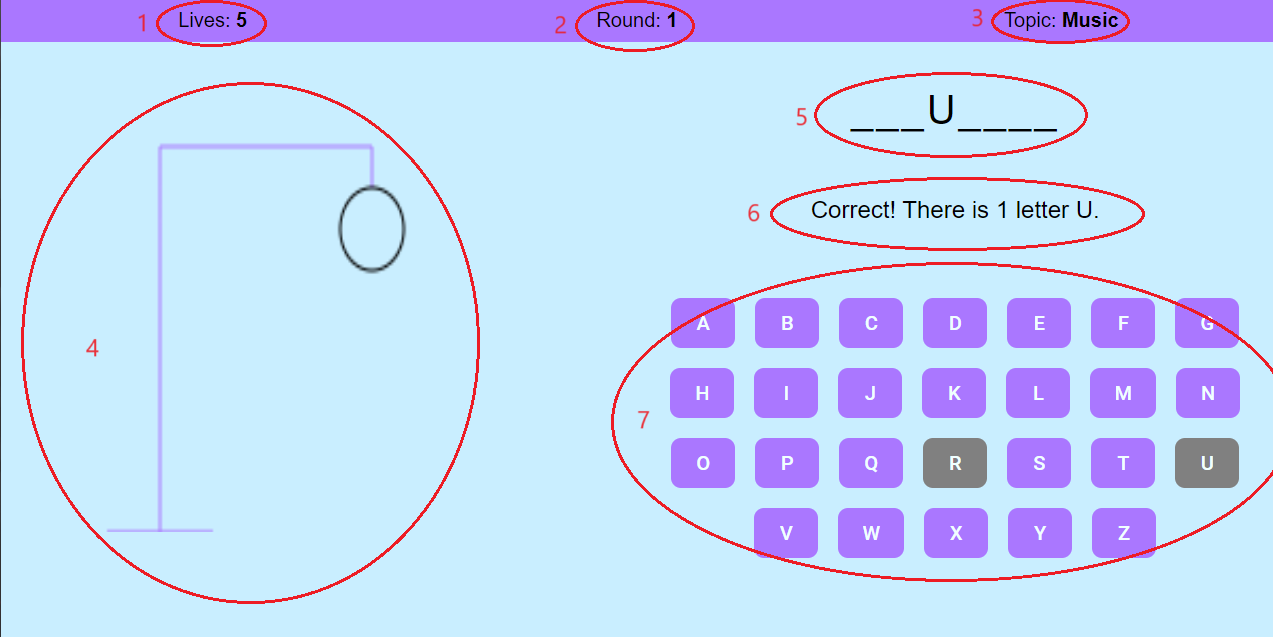
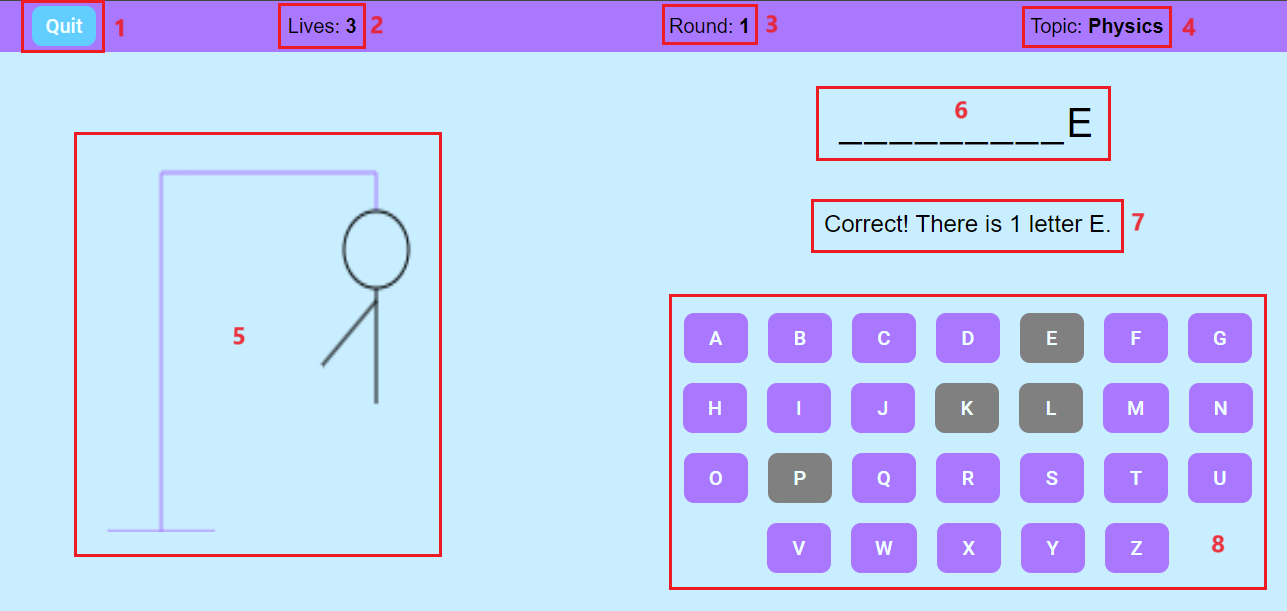
Add navigation buttons & update instruction content

diff --git a/src/app/instruction/instruction.component.html b/src/app/instruction/instruction.component.html
@@ -1,4 +1,5 @@
 <main>
+    <button mat-button id="back" (click)="backToMainMenu()">Back</button>
     <h1>INSTRUCTION</h1>
     <div>
         <p>
@@ -9,25 +10,26 @@
         <p>The game UI contains following parts, as seen in the figure below:</p>
         <img id="ui" src="hangman-ui.png" alt="Hangman UI">
         <ol>
+            <li><strong>Quit: </strong>If you want to quit the game, please use this button.</li>
             <li>
-                <b>Lives: </b>The number of lives left. If it is smaller than 3, it will be red color to indicate the player has
+                <strong>Lives: </strong>The number of lives left. If it is smaller than 3, it will be red color to indicate the player has
                 low lives.
             </li>
-            <li><b>Round: </b>The current playing round.</li>
-            <li><b>Topic: </b>The topic that associated to the hidden word.</li>
-            <li><b>Figure: </b>The image representation of the lives.</li>
+            <li><strong>Round: </strong>The current playing round.</li>
+            <li><strong>Topic: </strong>The topic that associated to the hidden word.</li>
+            <li><strong>Figure: </strong>The image representation of the lives.</li>
             <li>
-                <b>Hidden word: </b>Only English alphabet characters are hidden as underscores. If you correctly guesses a letter,
+                <strong>Hidden word: </strong>Only English alphabet characters are hidden as underscores. If you correctly guesses a letter,
                 it will be shown here.
             </li>
             <li>
-                <b>Game status: </b>Each time you guess a letter, when you solve a word, or when the game is over, a textual status
+                <strong>Game status: </strong>Each time you guess a letter, when you solve a word, or when the game is over, a textual status
                 will be shown here.
                 <p>In case that the game is over, you need to enter your name to save your result.</p>
                 <img id="gameover-form" src="hangman-gameover-form.png" alt="Gameover form">
             </li>
             <li>
-                <b>Letter buttons: </b>This is where you guess the letters in a word. The gray buttons are the previously selected
+                <strong>Letter buttons: </strong>This is where you guess the letters in a word. The gray buttons are the previously selected
                 letters.
             </li>
         </ol>

diff --git a/src/app/leaderboard/leaderboard.component.ts b/src/app/leaderboard/leaderboard.component.ts
@@ -11,6 +11,7 @@ import { provideNativeDateAdapter } from '@angular/material/core';
 import { MatIconModule } from '@angular/material/icon';
 import { MatTooltipModule } from '@angular/material/tooltip';
 import { environment } from '../../environments/environment';
+import { Router } from '@angular/router';
 
 @Component({
   selector: 'app-leaderboard',
@@ -31,17 +32,21 @@ export class LeaderboardComponent {
   searchForm = new FormGroup({
     'playerName': new FormControl(''),
     'startDate': new FormControl<Date | null>(null),
-    'endDate': new FormControl<Date | null>(null),
+    'endDate': new FormControl<Date | null>(null)
   })
   searchType: 'top-1000' | 'search' = 'top-1000'
 
-  constructor() {
+  constructor(private router: Router) {
     this.fetchLeaderboardData(this.searchType)
   }
 
   ngAfterViewInit() {
     this.dataSource.paginator = this.paginator
     this.dataSource.sort = this.sort
+  }
+
+  backToMainMenu() {
+    this.router.navigateByUrl('')
   }
 
   totalIncorrectGuessesReduce(total: number, value: number) {

diff --git a/src/app/play/round-info/round-info.component.html b/src/app/play/round-info/round-info.component.html
@@ -1,5 +1,6 @@
-<mat-grid-list cols="3" rowHeight="10:1">
-    <mat-grid-tile colspan="1" rowspan="1">Lives:&nbsp;
+<mat-grid-list cols="10" rowHeight="10:4">
+    <mat-grid-tile colspan="1" rowspan="1"><button mat-button id="quit" (click)="quitGame()">Quit</button></mat-grid-tile>
+    <mat-grid-tile colspan="3" rowspan="1">Lives:&nbsp;
         @if (lives < 3) {
             <strong class="low-lives">{{ lives }}</strong>
         }
@@ -7,6 +8,6 @@
             <strong>{{ lives }}</strong>
         }
     </mat-grid-tile>
-    <mat-grid-tile colspan="1" rowspan="1">Round:&nbsp;<strong>{{ round }}</strong></mat-grid-tile>
-    <mat-grid-tile colspan="1" rowspan="1">Topic:&nbsp;<strong>{{ topic }}</strong></mat-grid-tile>
+    <mat-grid-tile colspan="3" rowspan="1">Round:&nbsp;<strong>{{ round }}</strong></mat-grid-tile>
+    <mat-grid-tile colspan="3" rowspan="1">Topic:&nbsp;<strong>{{ topic }}</strong></mat-grid-tile>
 </mat-grid-list>

diff --git a/src/app/play/round-info/round-info.component.ts b/src/app/play/round-info/round-info.component.ts
@@ -1,10 +1,12 @@
 import { Component, Input } from '@angular/core';
+import { MatButtonModule } from '@angular/material/button';
 import { MatGridListModule } from '@angular/material/grid-list';
+import { Router } from '@angular/router';
 
 @Component({
   selector: 'app-round-info',
   standalone: true,
-  imports: [MatGridListModule],
+  imports: [MatGridListModule, MatButtonModule],
   templateUrl: './round-info.component.html',
   styleUrl: './round-info.component.css'
 })
@@ -12,4 +14,12 @@ export class RoundInfoComponent {
   @Input() lives!: number
   @Input() round!: number
   @Input() topic!: string
+
+  constructor(private router: Router) {}
+
+  quitGame() {
+    if(confirm('Are you sure you want to quit? Your progress will not be saved.')) {
+      this.router.navigateByUrl('')
+    }
+  }
 }

diff --git a/src/app/instruction/instruction.component.ts b/src/app/instruction/instruction.component.ts
@@ -1,12 +1,18 @@
 import { Component } from '@angular/core';
+import { MatButtonModule } from '@angular/material/button';
+import { Router } from '@angular/router';
 
 @Component({
   selector: 'app-instruction',
   standalone: true,
-  imports: [],
+  imports: [MatButtonModule],
   templateUrl: './instruction.component.html',
   styleUrl: './instruction.component.css'
 })
 export class InstructionComponent {
+  constructor(private router: Router) {}
 
+  backToMainMenu() {
+    this.router.navigateByUrl('')
+  }
 }

diff --git a/src/app/main-menu/main-menu.component.html b/src/app/main-menu/main-menu.component.html
@@ -7,6 +7,8 @@
     <button mat-flat-button class="primary-button" [routerLink]="'leaderboard'">LEADERBOARD</button>
     <br>
     <button mat-flat-button class="primary-button" [routerLink]="'instruction'">INSTRUCTION</button>
+    <p><strong>Important note: </strong>Please do not use browser navigation (back & forward) buttons. Instead, use the navigation buttons inside the application.</p>
+    <hr>
     <footer>
         <div>Version 1.0</div>
         <div>&copy; 2024, Nhat Truong</div>

diff --git a/src/app/play/play.component.ts b/src/app/play/play.component.ts
@@ -30,7 +30,7 @@ export class PlayComponent {
   @HostListener('window:beforeunload', ['$event'])
   onBeforeUnload($event: any): void {
     $event.preventDefault()
-    $event.returnValue = 'Are you sure you want to leave? Your progress will not be saved.'
+    $event.returnValue = 'Are you sure you want to quit? Your progress will not be saved.'
   }
 
   constructor() {

diff --git a/src/app/instruction/instruction.component.css b/src/app/instruction/instruction.component.css
@@ -1,3 +1,11 @@
+#back {
+    height: 40px;
+    background-color: var(--primary-color);
+    border-radius: 10px;
+    font-size: 20px;
+    color: azure;
+}
+
 main {
     padding-top: 10px;
     padding-bottom: 10px;

diff --git a/src/app/leaderboard/leaderboard.component.css b/src/app/leaderboard/leaderboard.component.css
@@ -1,3 +1,11 @@
+#back {
+    height: 40px;
+    background-color: var(--primary-color);
+    border-radius: 10px;
+    font-size: 20px;
+    color: azure;
+}
+
 main {
     padding-top: 10px;
     padding-bottom: 10px;

diff --git a/src/app/play/round-info/round-info.component.css b/src/app/play/round-info/round-info.component.css
@@ -5,3 +5,11 @@ mat-grid-list {
 strong.low-lives {
     color: red;
 }
+
+#quit {
+    height: 40px;
+    background-color: var(--primary-color);
+    border-radius: 10px;
+    font-size: 20px;
+    color: azure;
+}

diff --git a/src/app/leaderboard/leaderboard.component.html b/src/app/leaderboard/leaderboard.component.html
@@ -1,4 +1,5 @@
 <main>
+    <button mat-button id="back" (click)="backToMainMenu()">Back</button>
     <h1>LEADERBOARD</h1>
     @if(searchType === 'top-1000') {
         <h2>Top 1000</h2>
